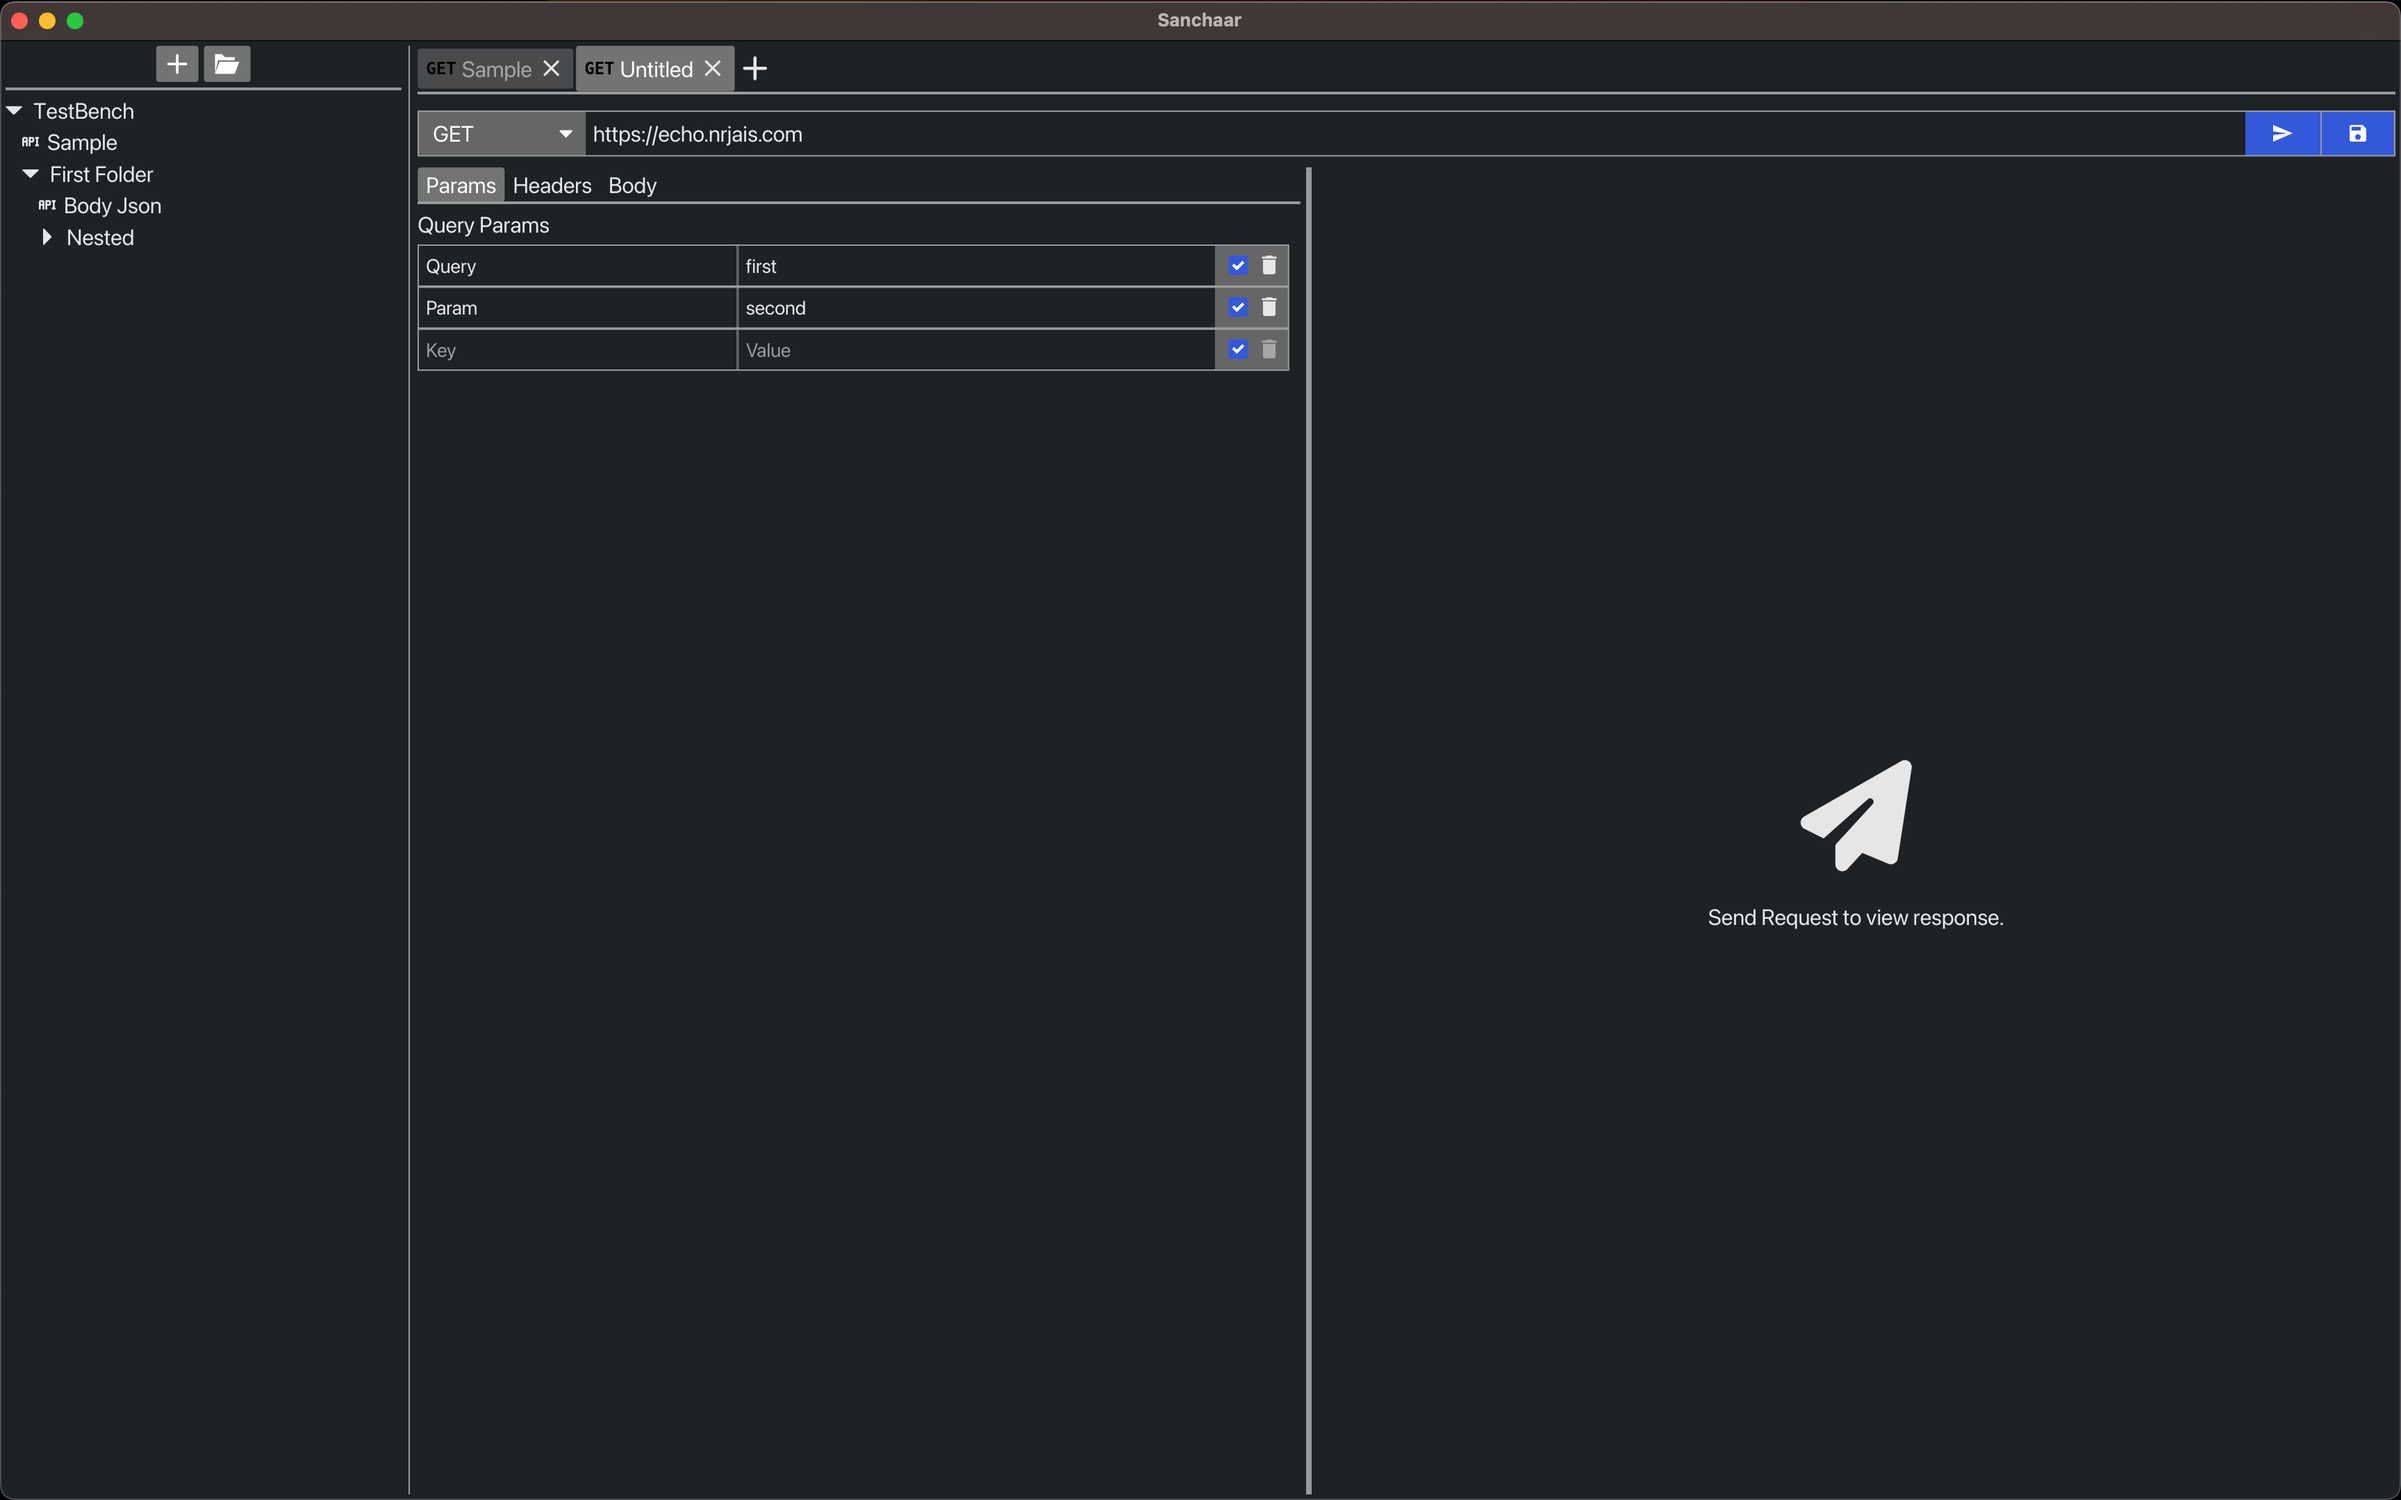
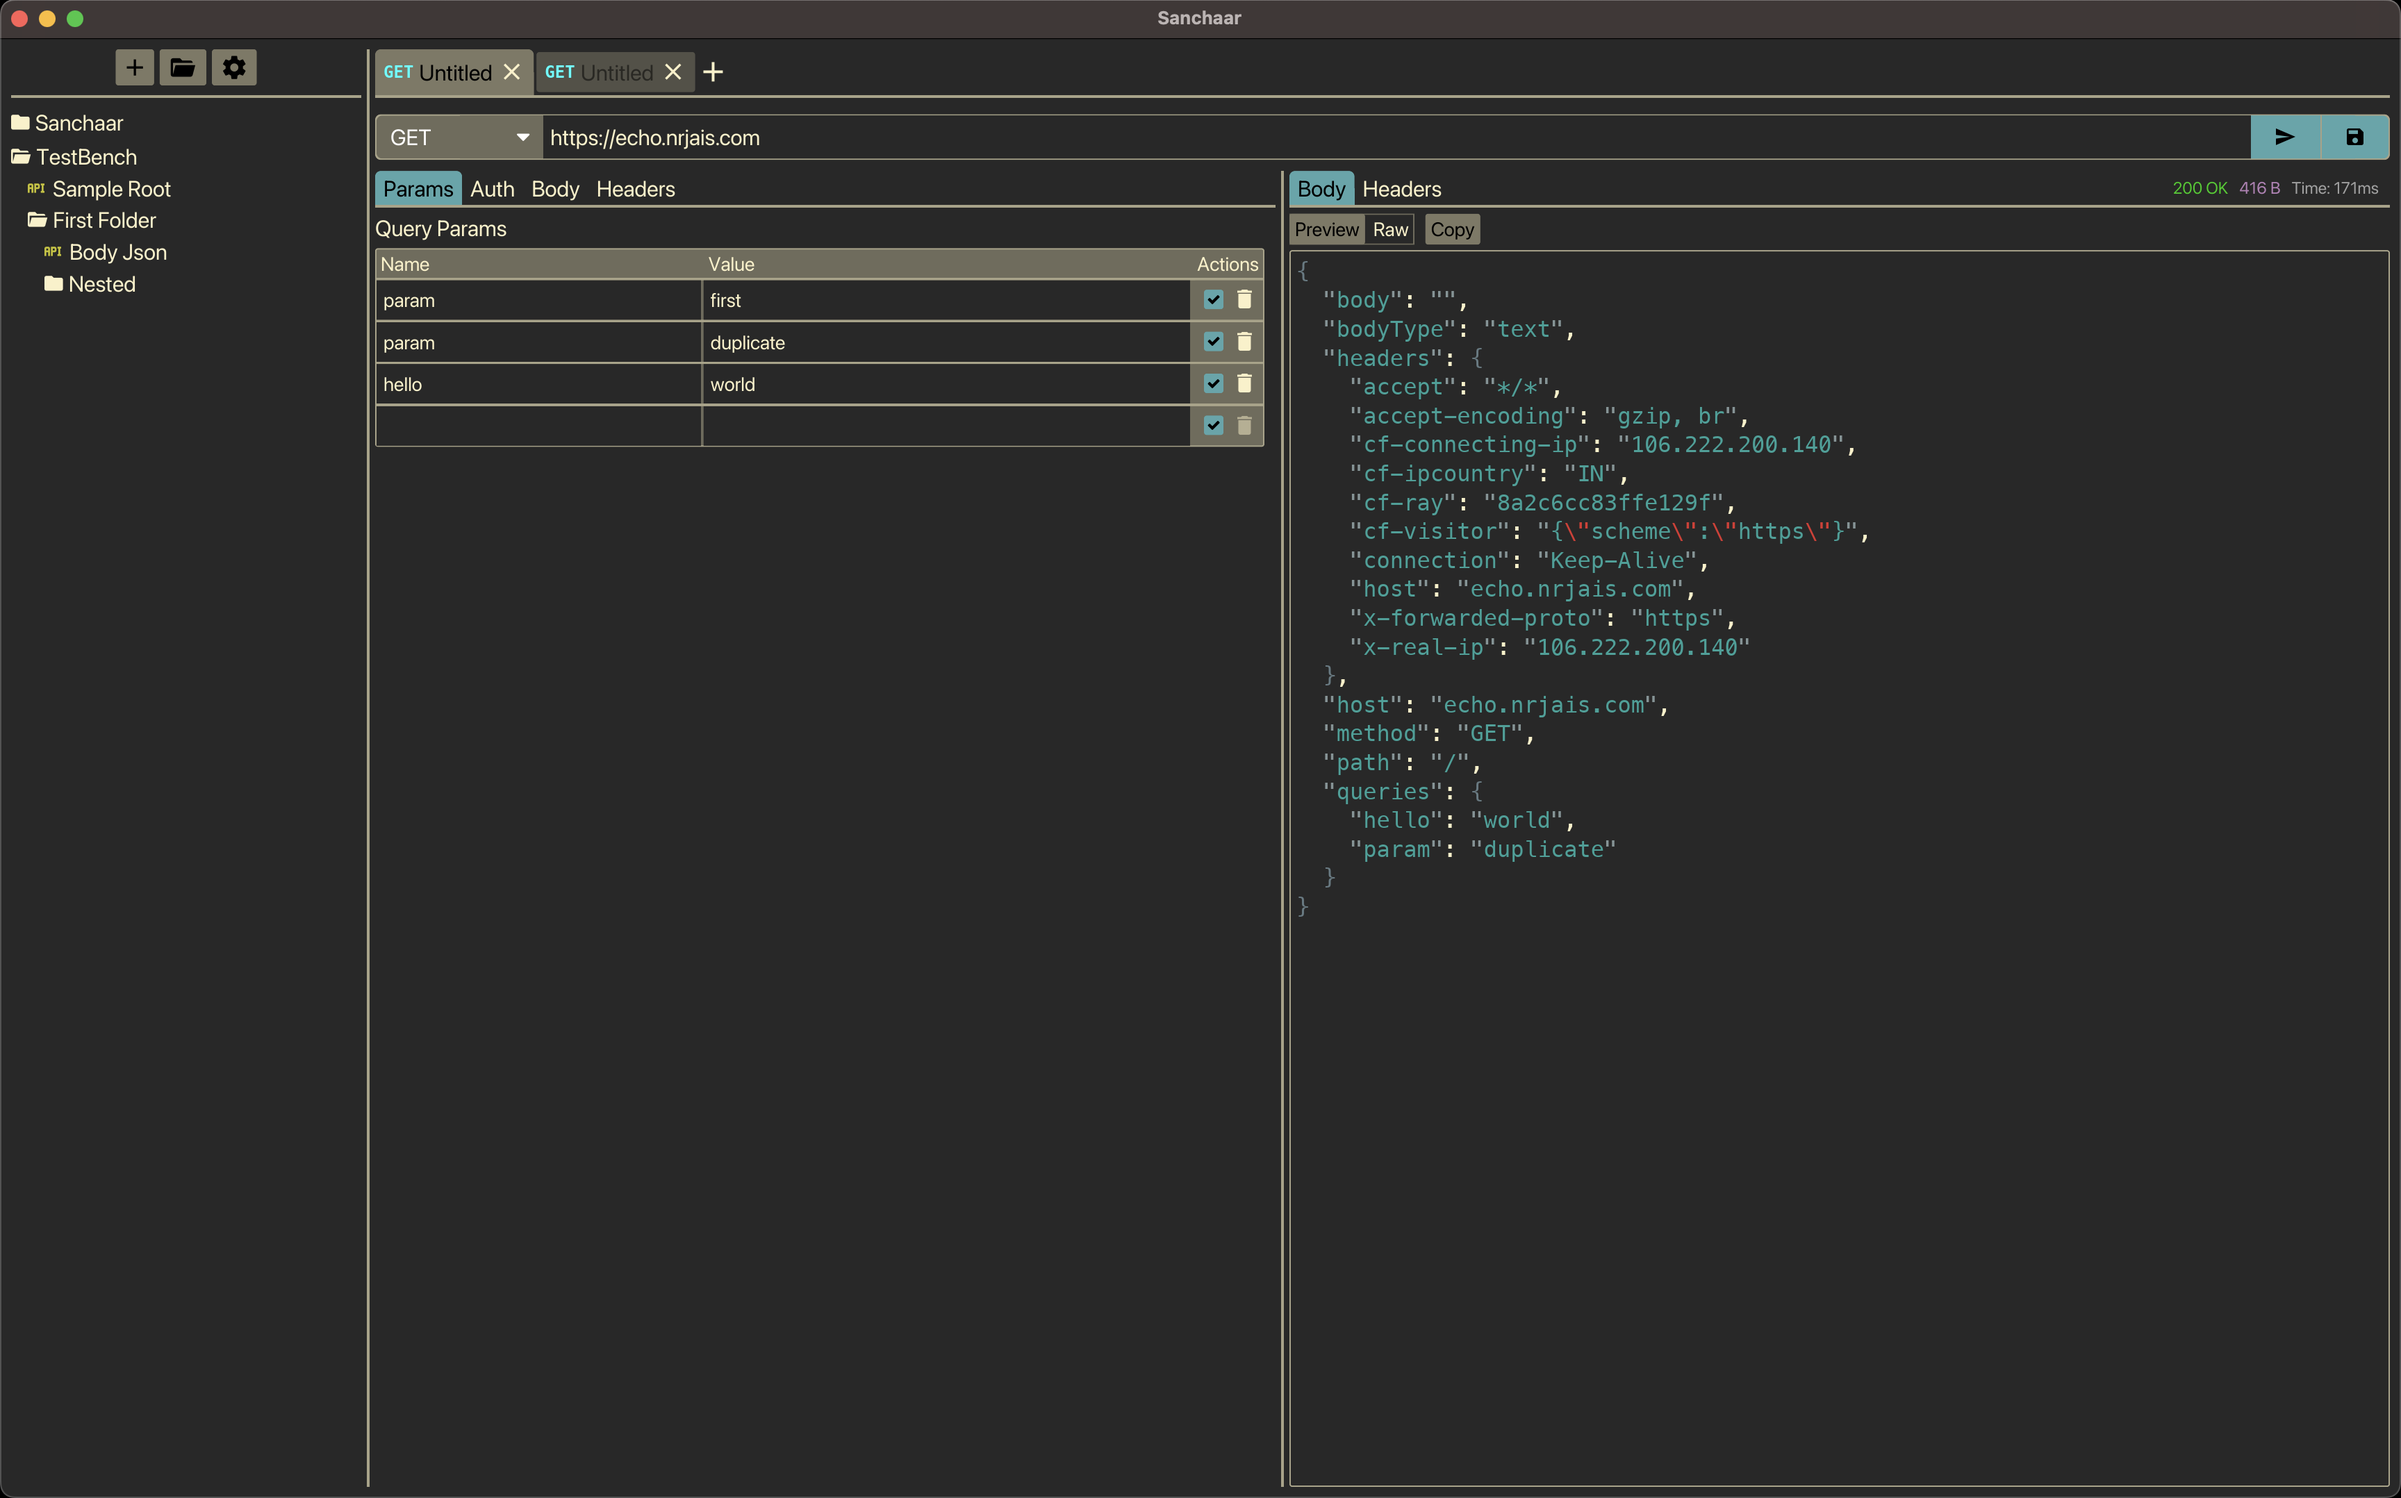
Update readme and screenshot

Changed region(s): [[0.0, 0.0, 1.0, 0.994], [0.7188, 0.497, 0.8125, 0.6212], [0.625, 0.5591, 0.6562, 0.5902]]

diff --git a/Readme.md b/Readme.md
@@ -1,12 +1,13 @@
 <div align="center">
 <img src="assets/512x512.png" alt="logo" width="150" style="border-radius: 25px"/>
+
+[![Discord](https://img.shields.io/discord/1261282563138392117?color=5865F2&label=Discord&logo=discord&logoColor=white)](https://discord.gg/FSK25BXgdt)
+
 </div>
 
 # Sanchaar - A Offline REST API client
 
 Sanchaar is a offline REST API client built using Iced in Rust. It is a simple tool to test REST APIs without the need of internet connection. It supports GET, POST, PUT, DELETE requests with path, query and header parameters.
-
-[![Discord](https://img.shields.io/discord/1261282563138392117?color=5865F2&label=Discord&logo=discord&logoColor=white)](https://discord.gg/FSK25BXgdt)
 
 ## Screenshot
 
@@ -58,10 +59,10 @@ Sanchaar is a offline REST API client built using Iced in Rust. It is a simple t
   - [ ] Export/Import
   - [ ] Settings
     - [ ] Update default env
-    - [ ] Change template syntax
+    - [ ] Change template replacer syntax
     - [ ] Collection headers
     - [ ] Collection auth
-    - [ ] Request preset
+    - [ ] Request template selection
 - [ ] Environments
   - [x] Add/Remove/Update
   - [x] Choose environment
@@ -69,6 +70,12 @@ Sanchaar is a offline REST API client built using Iced in Rust. It is a simple t
   - [ ] Secure environment variables
   - [ ] Variables from .env file
 - [ ] Assertions
+  - [x] Status code
+  - [x] Response time
+  - [x] Response body
+  - [x] Response headers
+  - [ ] GUI editor
+  - [ ] GUI assertions
 - [ ] Scripting
   - [ ] Pre request
   - [ ] Post request
@@ -78,8 +85,8 @@ Sanchaar is a offline REST API client built using Iced in Rust. It is a simple t
   - [ ] SSL
   - [ ] Timeout
 - [ ] Cookies
-  - [ ] List
-  - [ ] Edit/Add/Remove
+  - [ ] List/Remove
+  - [ ] Edit/Add ?
 - [ ] History
   - [ ] List
   - [ ] Clear
@@ -87,7 +94,9 @@ Sanchaar is a offline REST API client built using Iced in Rust. It is a simple t
   - [ ] Auto Save/Load
 - [ ] Mock APIs
 - [ ] CLI
-  - [ ] Run request by path
+  - [x] Run request by path
+  - [x] Run assertion by path/folder
+  - [ ] Pretty print assertion results
   - [ ] Select environment by name
   - [ ] Run tests by path
   - [ ] Run all collection tests
